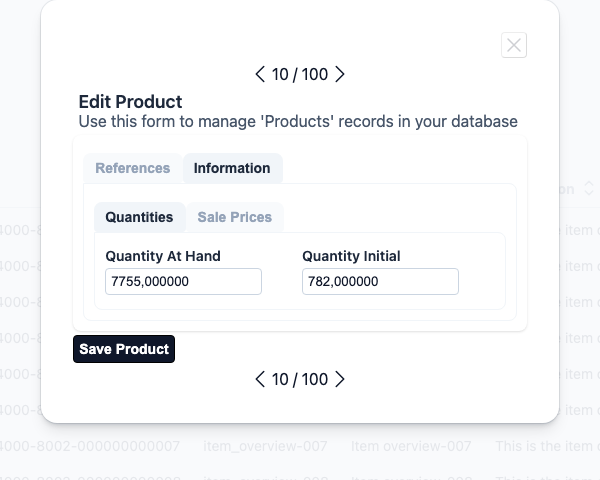
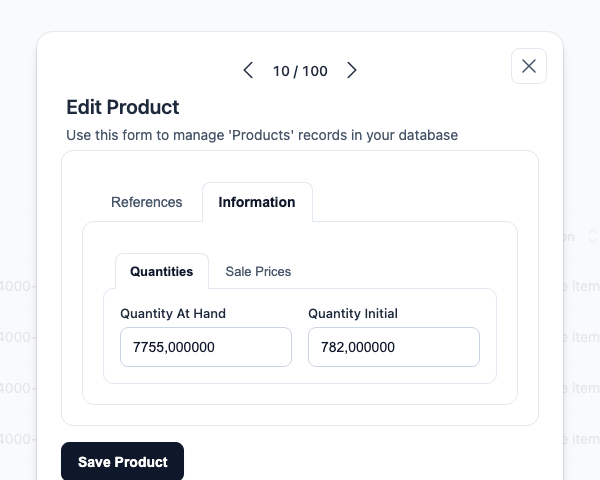
merge - docs: regenerate guide images (#544 · UI-7) (#554)
* test: fit guide capture options to the refreshed frame

Claude-Session: https://claude.ai/code/session_01YKupPgJ3ei5GhyhHup42UR

* docs: regenerate guide images

Claude-Session: https://claude.ai/code/session_01YKupPgJ3ei5GhyhHup42UR

* docs(spec): tick UI-7 acceptance criteria

Claude-Session: https://claude.ai/code/session_01YKupPgJ3ei5GhyhHup42UR

---------

diff --git a/specs/issue-544-enriched-spec.md b/specs/issue-544-enriched-spec.md
@@ -3441,11 +3441,11 @@ Theme: the images render with `:vitreous_marble`. `lib/aurora_uix/templates/them
 9. Commit in two groups: the three capture files as `test: fit guide capture options to the refreshed frame`, then the PNGs as `docs: regenerate guide images`.
 
 ##### Acceptance criteria
-- [ ] AC-1: After steps 1–4, `git status --short` lists only `test/guides/capture_overview_images.exs`, `test/guides/capture_ash_images.exs`, `test/guides/capture_layout_images.exs` and PNG files under `guides/overview/images`, `guides/core/images/layouts` and `guides/core/images/ash`; `config/test.exs` is not listed (mechanical — no red test; verified by `git status --short`).
-- [ ] AC-2: Every regenerated index, show and edit image shows the new frame of UI-3 to UI-6 at desktop and mobile width, and the seven images of step 2 show their whole table card and their whole modal with no edge cut (manual — no red test; verified by reading each changed PNG per step 7).
-- [ ] AC-3: A failing capture, a capture showing an error flash, a capture with a cut table card and a capture with a cut modal block the section: the PNG is not committed (manual — no red test; verified by steps 7–8).
-- [ ] AC-4: The captures render with `:vitreous_marble` in the checkout that runs them (mechanical — no red test; verified by the `mix run` command of step 1 printing `:vitreous_marble`).
-- [ ] AC-5: The seven images of step 2 have the sizes of step 6 (mechanical — no red test; verified by `file` on each image).
+- [x] AC-1: After steps 1–4, `git status --short` lists only `test/guides/capture_overview_images.exs`, `test/guides/capture_ash_images.exs`, `test/guides/capture_layout_images.exs` and PNG files under `guides/overview/images`, `guides/core/images/layouts` and `guides/core/images/ash`; `config/test.exs` is not listed (mechanical — no red test; verified by `git status --short`).
+- [x] AC-2: Every regenerated index, show and edit image shows the new frame of UI-3 to UI-6 at desktop and mobile width, and the seven images of step 2 show their whole table card and their whole modal with no edge cut (manual — no red test; verified by reading each changed PNG per step 7).
+- [x] AC-3: A failing capture, a capture showing an error flash, a capture with a cut table card and a capture with a cut modal block the section: the PNG is not committed (manual — no red test; verified by steps 7–8).
+- [x] AC-4: The captures render with `:vitreous_marble` in the checkout that runs them (mechanical — no red test; verified by the `mix run` command of step 1 printing `:vitreous_marble`).
+- [x] AC-5: The seven images of step 2 have the sizes of step 6 (mechanical — no red test; verified by `file` on each image).
 
 ##### Test ports
 - None: the capture tests are the procedure, not the proof.
